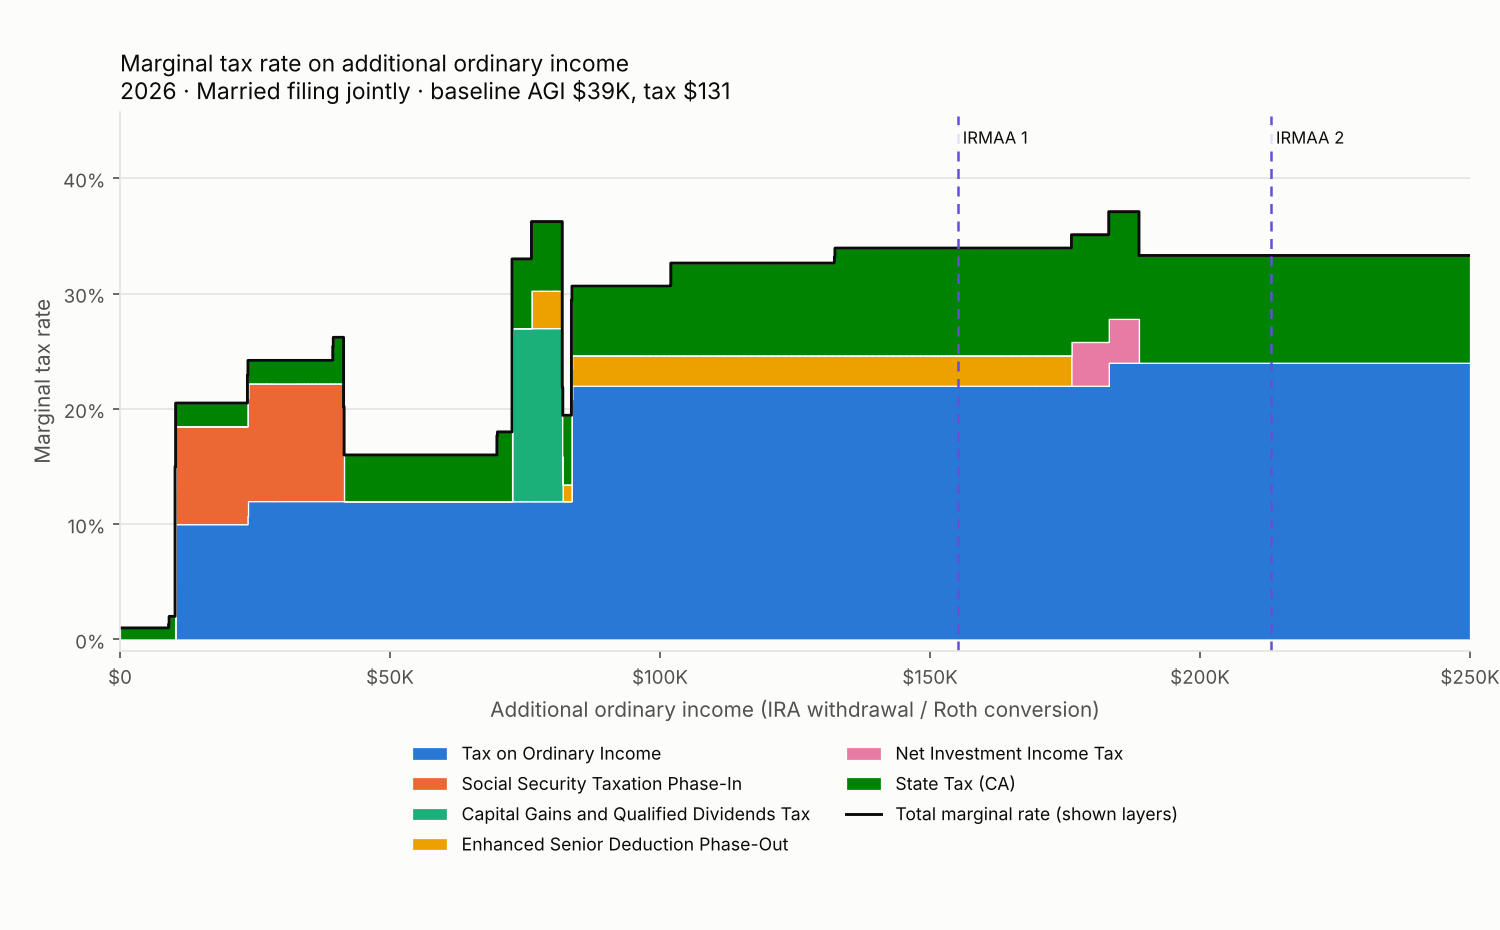
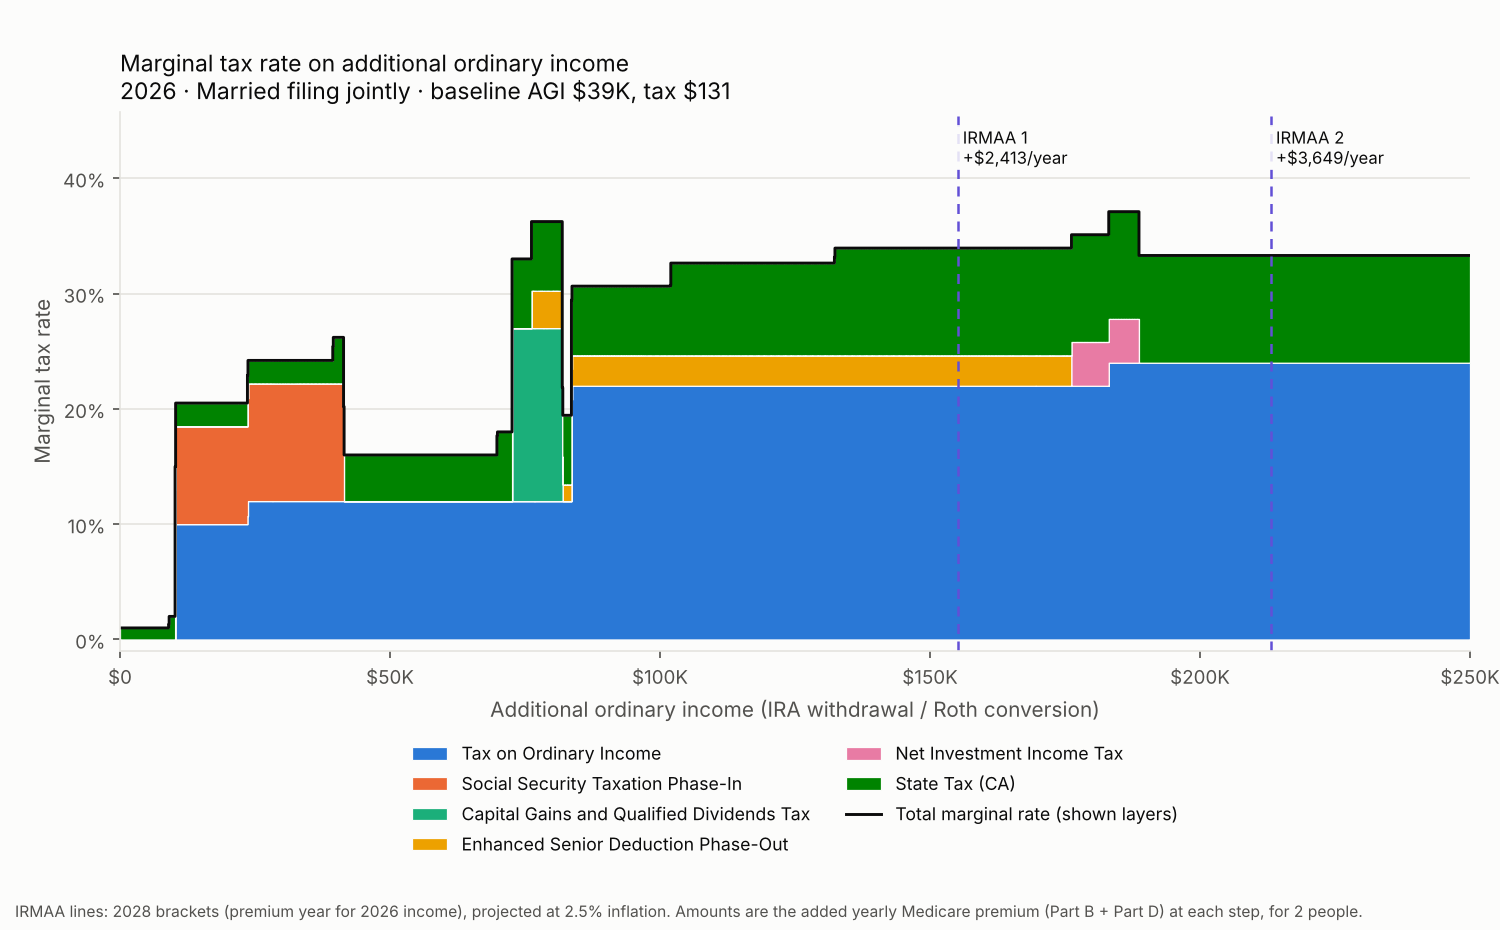
Show added IRMAA premium on each line and a basis footnote
Each IRMAA line now reads e.g. 'IRMAA 1 / +$2,413/year' (the step up
from the previous tier, for the people enrolled), and the chart footnote
says whether the lines use projected premium-year brackets or this
year's published ones.

Claude-Session: https://claude.ai/code/session_01FJ26b9BCK95UC4yu9yrPM5

Changed region(s): [[0.0, 0.9667, 0.92, 0.9978], [0.8587, 0.1559, 0.92, 0.1871], [0.644, 0.1559, 0.7053, 0.1871]]

diff --git a/src/rtpl/engine/marginal.py b/src/rtpl/engine/marginal.py
@@ -56,6 +56,7 @@ class Annotation:
     label: str
     detail: str
     annual_cost: float | None = None  # IRMAA: extra premium per year
+    sublabel: str = ""  # second line on the chart, e.g. "+$2,413/year"
 
 
 @dataclass
@@ -71,6 +72,7 @@ class MarginalSeries:
     results: list[TaxResult]  # one per grid point, len(x) + 1
     annotations: list[Annotation] = field(default_factory=list)
     notes: list[str] = field(default_factory=list)
+    irmaa_note: str = ""  # footnote shown when the IRMAA lines are visible
 
     @property
     def total(self) -> list[float]:
@@ -223,6 +225,20 @@ def irmaa_annotations(
         estimate = f" (projected at {law.inflation_used:.1%} inflation)"
     else:
         estimate = ""
+    who = f"{people} person" if people == 1 else f"{people} people"
+    if basis == "current_year":
+        basis_text = f"{threshold_year} published brackets and premiums"
+    elif law.status == "projected":
+        basis_text = (
+            f"{threshold_year} brackets (premium year for {profile.year} income), "
+            f"projected at {law.inflation_used:.1%} inflation"
+        )
+    else:
+        basis_text = f"{threshold_year} brackets (premium year for {profile.year} income)"
+    series.irmaa_note = (
+        f"IRMAA lines: {basis_text}. Amounts are the added yearly Medicare premium "
+        f"(Part B + Part D) at each step, for {who}."
+    )
     out = []
     prev_b, prev_d = law.irmaa_part_b_standard, 0.0
     for n, tier in enumerate(law.irmaa_tiers, start=1):
@@ -232,7 +248,6 @@ def irmaa_annotations(
         prev_b, prev_d = tier.part_b, tier.part_d
         if x is None:
             continue
-        who = f"{people} person" if people == 1 else f"{people} people"
         out.append(
             Annotation(
                 kind="irmaa",
@@ -245,6 +260,7 @@ def irmaa_annotations(
                     f"({who}){estimate}"
                 ),
                 annual_cost=step_cost,
+                sublabel=f"+${step_cost:,.0f}/year",
             )
         )
     return out

diff --git a/src/rtpl/charts/marginal_chart.py b/src/rtpl/charts/marginal_chart.py
@@ -81,9 +81,9 @@ def render_marginal(
     # Annotations: vertical lines with staggered labels so they do not collide.
     ann = [a for a in series.annotations if visibility.get(a.kind, False)]
     y_top = ax.get_ylim()[1]
-    levels = [0.97, 0.90, 0.83]
+    levels = [0.97, 0.86, 0.75]
     last_x_at_level: dict[int, float] = {}
-    min_gap = xs[-1] * 0.07
+    min_gap = xs[-1] * 0.09
     for a in sorted(ann, key=lambda a: a.x):
         color = palette.irmaa if a.kind == "irmaa" else palette.aca
         style = (0, (4, 3)) if a.kind == "irmaa" else (0, (1, 2))
@@ -93,10 +93,12 @@ def render_marginal(
             level += 1
         last_x_at_level[level] = a.x
         near_right = a.x > xs[-1] * 0.88
+        lines = [a.label] + ([a.sublabel] if a.sublabel else [])
+        pad = lambda t: f"{t} " if near_right else f" {t}"  # noqa: E731
         ax.text(
             a.x,
             y_top * levels[level],
-            _escape(f"{a.label} " if near_right else f" {a.label}"),
+            _escape("\n".join(pad(t) for t in lines)),
             color=palette.text_primary,
             fontsize=8,
             va="top",
@@ -140,6 +142,8 @@ def render_marginal(
             t.set_color(palette.text_primary)
 
     notes = list(series.notes)
+    if visibility.get("irmaa") and series.irmaa_note and any(a.kind == "irmaa" for a in ann):
+        notes.append(series.irmaa_note)
     if notes:
-        fig.text(0.01, 0.01, _escape("  ".join(notes)), color=palette.text_secondary, fontsize=7.5)
+        fig.text(0.01, 0.01, _escape("\n".join(notes)), color=palette.text_secondary, fontsize=7.5, va="bottom")
     fig.subplots_adjust(left=0.08, right=0.98, top=0.88, bottom=0.30)

diff --git a/tests/test_marginal.py b/tests/test_marginal.py
@@ -172,3 +172,13 @@ def test_irmaa_top_tier_frozen_until_2028():
     assert lib.federal(2027, 0.03).irmaa_tiers[-1].mfj == 750_000
     assert lib.federal(2027, 0.03).irmaa_tiers[0].mfj == (218_000 * 1.03) // 1000 * 1000
     assert lib.federal(2028, 0.03).irmaa_tiers[-1].mfj == (750_000 * 1.03) // 1000 * 1000
+
+
+def test_irmaa_labels_show_added_premium_and_footnote(lib):
+    p = make(people=[Person(birth_year=1960, ira_distributions=50_000)])
+    s = build_marginal_series(p, lib, x_max=250_000, irmaa_basis="current_year")
+    first = [a for a in s.annotations if a.kind == "irmaa"][0]
+    assert first.sublabel == f"+${(284.10 - 202.90 + 14.50) * 12:,.0f}/year"
+    assert s.irmaa_note.startswith("IRMAA lines: 2026 published brackets")
+    s2 = build_marginal_series(p, lib, x_max=250_000)
+    assert "2028 brackets (premium year for 2026 income), projected at 2.5%" in s2.irmaa_note
